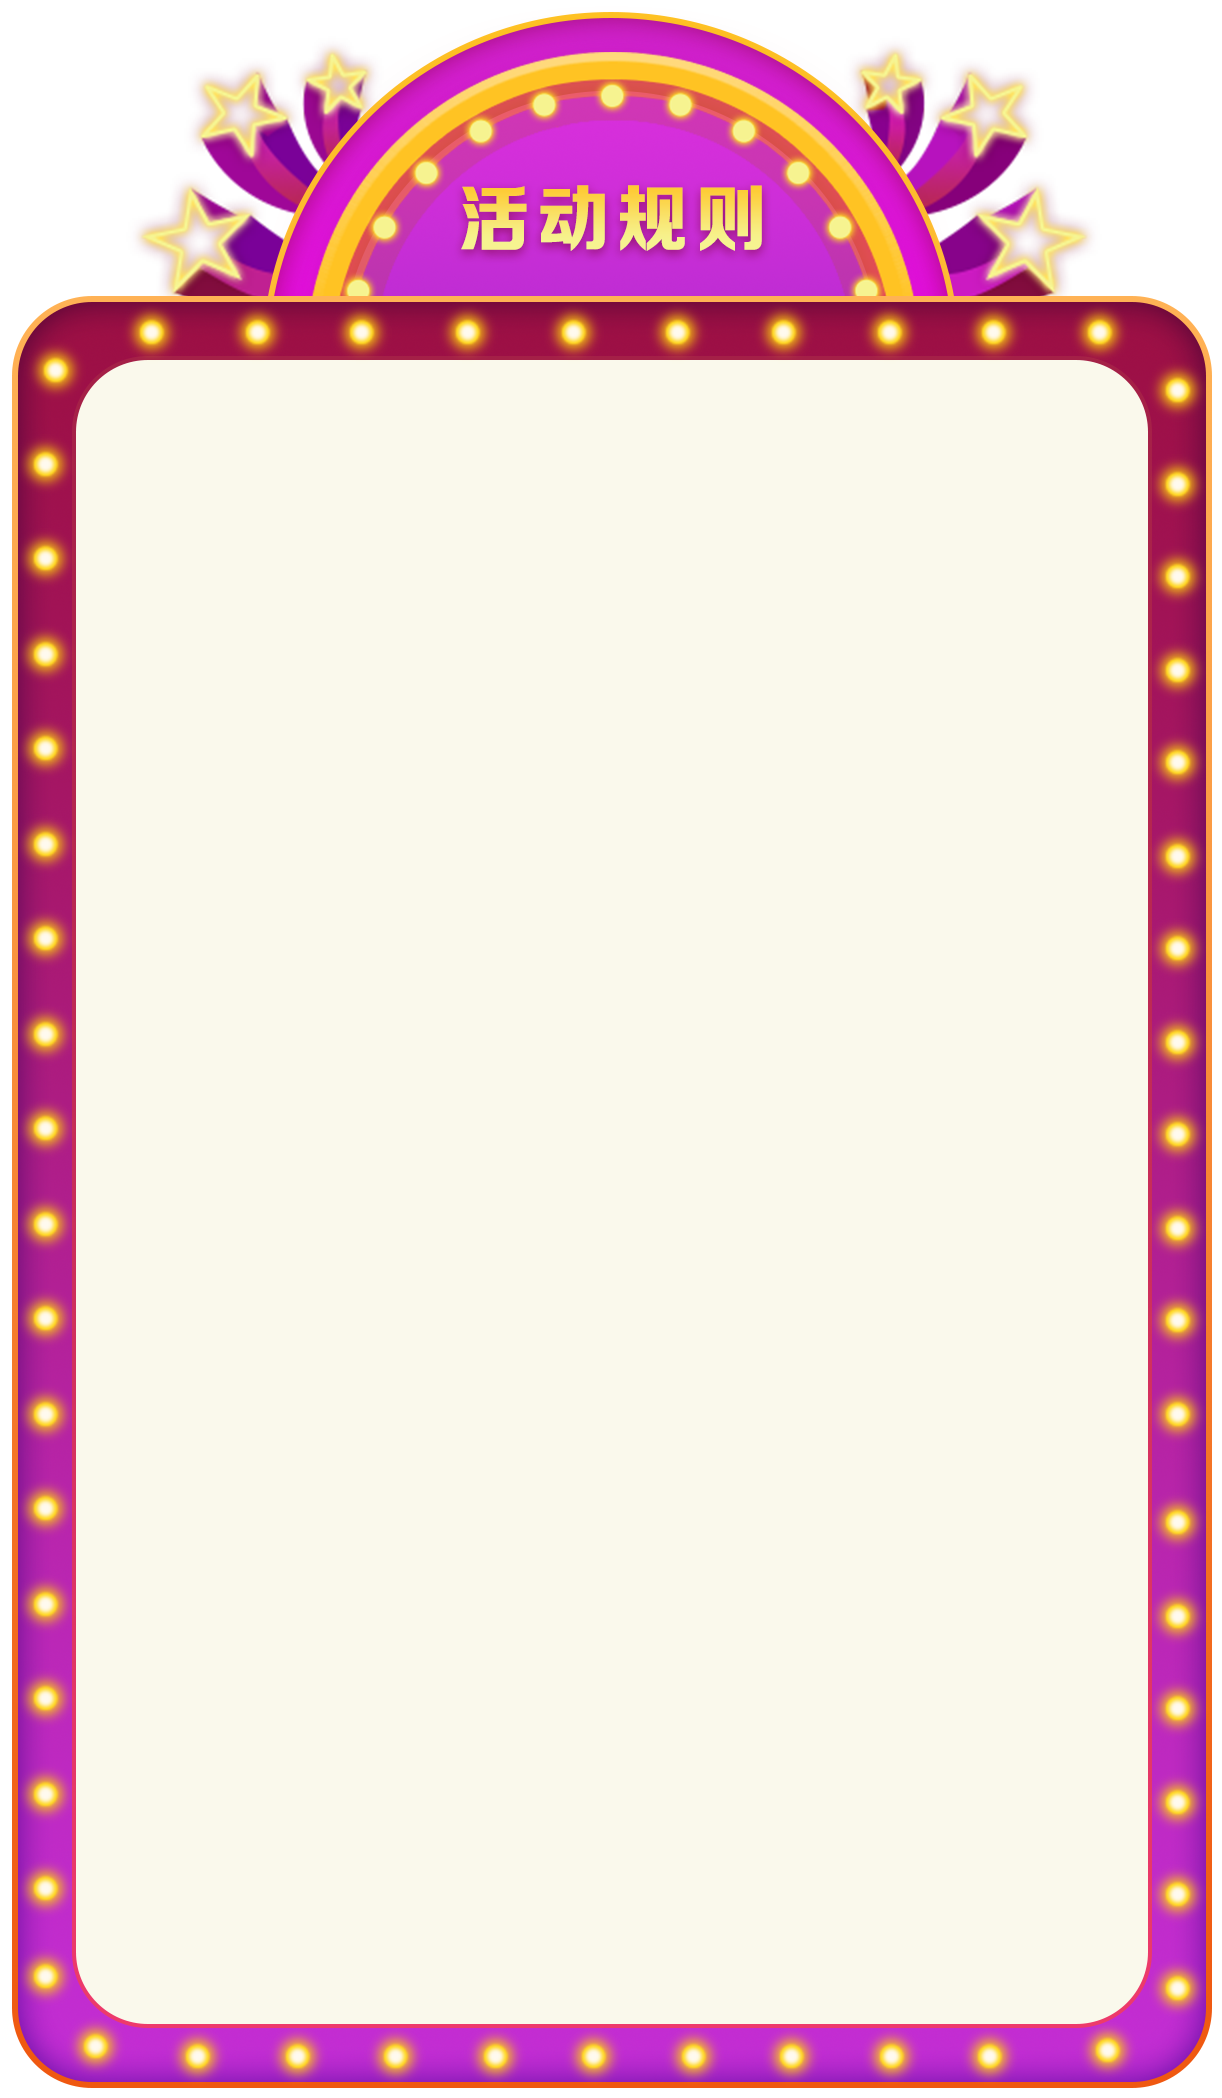
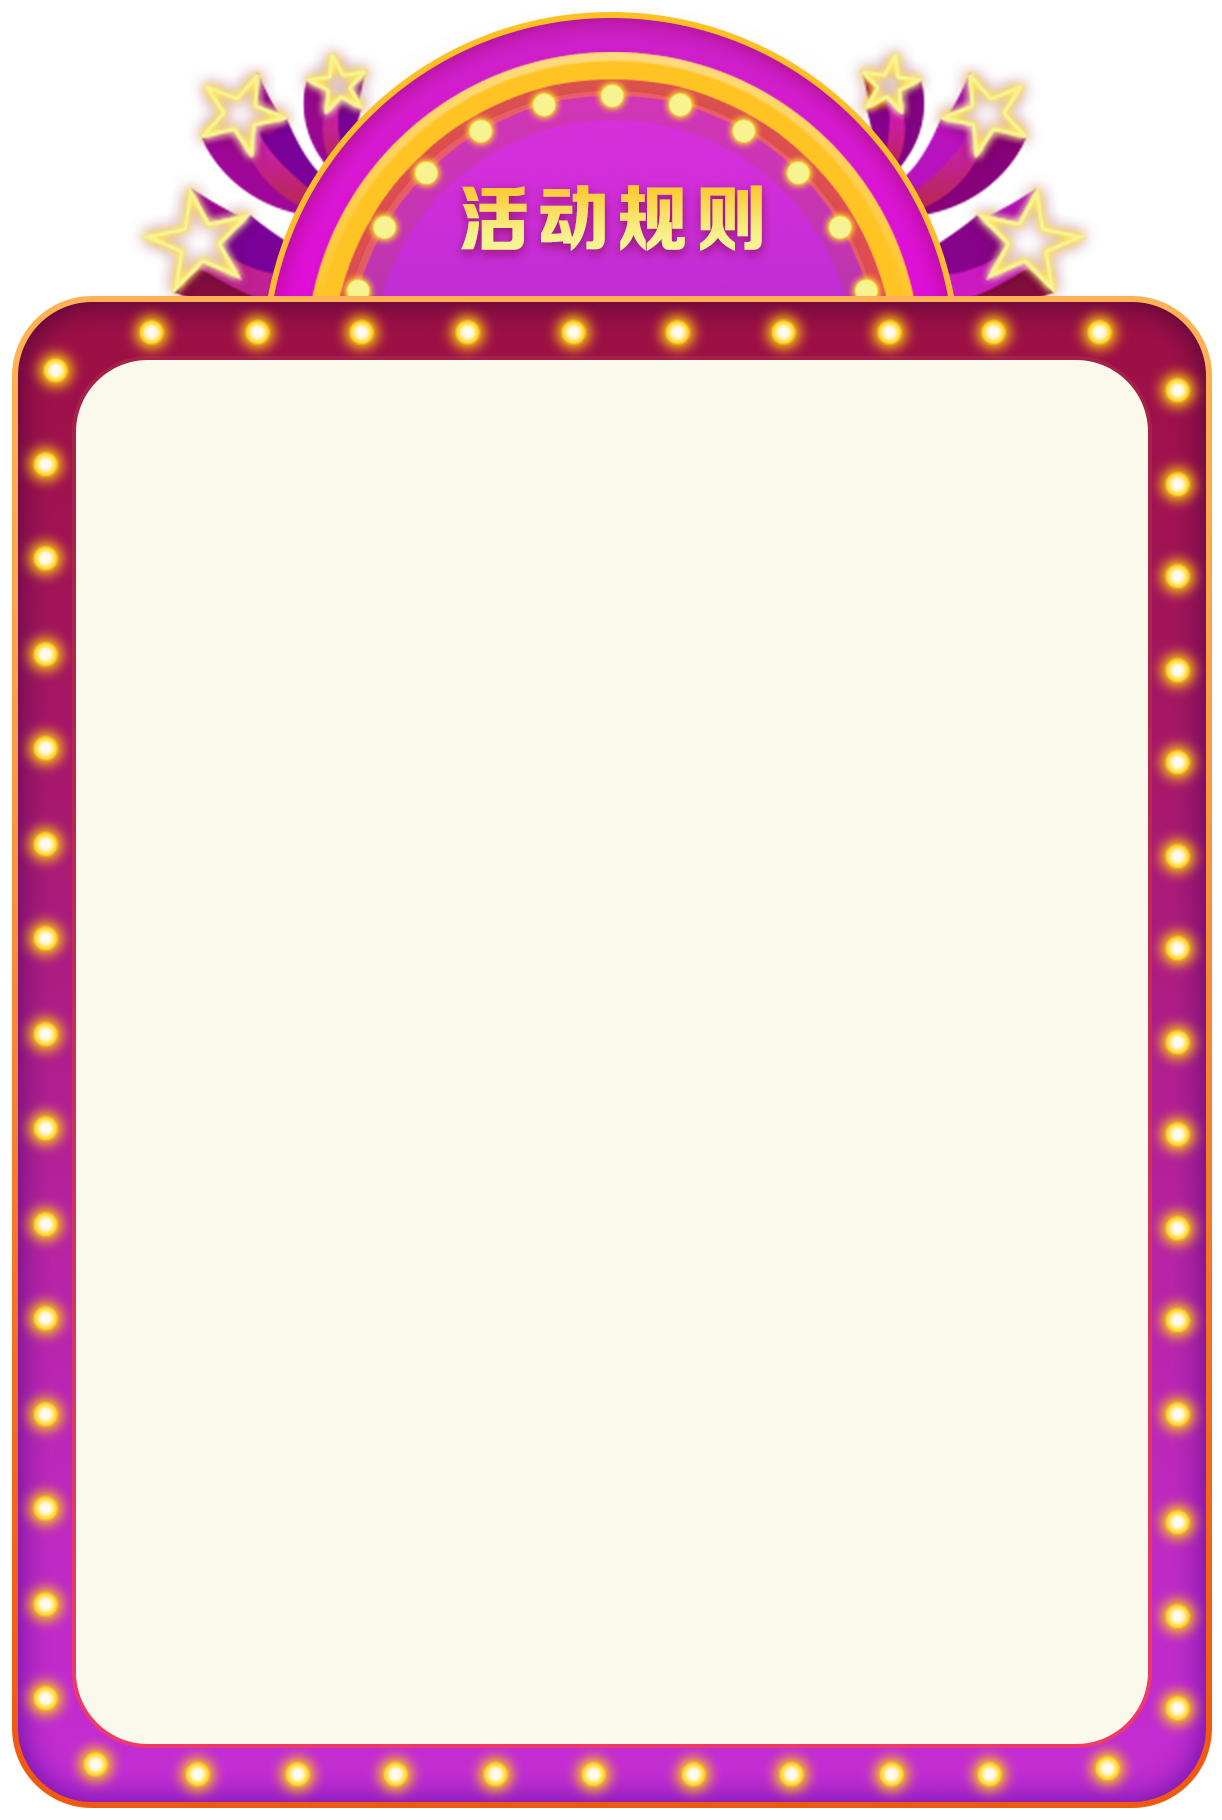
fix rule-bg.png

Changed region(s): [[0.0, 0.0, 0.9951, 0.6769], [0.0, 0.7077, 0.9951, 1.0]]

diff --git a/src/views/richman/component/comPop.vue b/src/views/richman/component/comPop.vue
@@ -296,7 +296,7 @@
         </div>
       </div>
     </template>
-    <div class="close" @click="close" :style="{top:value===1?'10.5rem':''}">
+    <div class="close" :class="value===1?'close-up':''" @click="close" :style="{top:value===1?'10.5rem':''}">
       <img src="../images/compop/close.png" alt />
     </div>
     <!-- </div> -->
@@ -629,10 +629,10 @@ export default {
   background: url(../images/compop/rule-bg.png);
   background-size: 100% 100%;
   width: 6.11rem;
-  height: 10.49rem;
-  margin: 0.15rem auto 0;
+  height: 9.1rem;
+  margin: 0.7rem auto 0;
   position: relative;
-  overflow-y: scroll;
+  // overflow-y: scroll;
   position: fixed;
   top: 0;
   bottom: 0;
@@ -643,9 +643,9 @@ export default {
   .rule-container {
     margin: 1.8rem auto 0;
     width: 4.94rem;
-    height: 8rem;
-    overflow-y: scroll;
-    height: 8.3rem;
+    
+    overflow: auto;
+    height: 6.9rem;
     .light-color {
       font-size: 0.2rem;
       font-family: PingFang SC;
@@ -1079,6 +1079,10 @@ export default {
   left: 50%;
   transform: translateX(-50%);
   z-index: 5;
+  &.close-up{
+    margin: 0 auto;
+    top: 9.9rem!important;
+  }
   img {
     display: block;
     width: 0.6rem;

diff --git a/src/views/richman/App.vue b/src/views/richman/App.vue
@@ -24,7 +24,7 @@
                 <div v-if="countTime.length" class="block-bg">{{countTime.slice(6,8)}}</div>&nbsp;
                 <div v-if="countTime.length">{{countTime.slice(8,9)}}</div>
               </div>
-              <div class="countdowntime" v-if="activityInfo.state==2||countTime==''">
+              <div class="countdowntime" v-if="activityInfo.state==2&&countTime==''">
           活动已经结束
               </div>
             </div>
@@ -307,6 +307,7 @@ export default {
     countTime(val){
       if(val===''){
         this.getActivityInfo()
+        // this.activityInfo.state=2
         this.getRankList()
         console.log('再次调用接口')
       }
